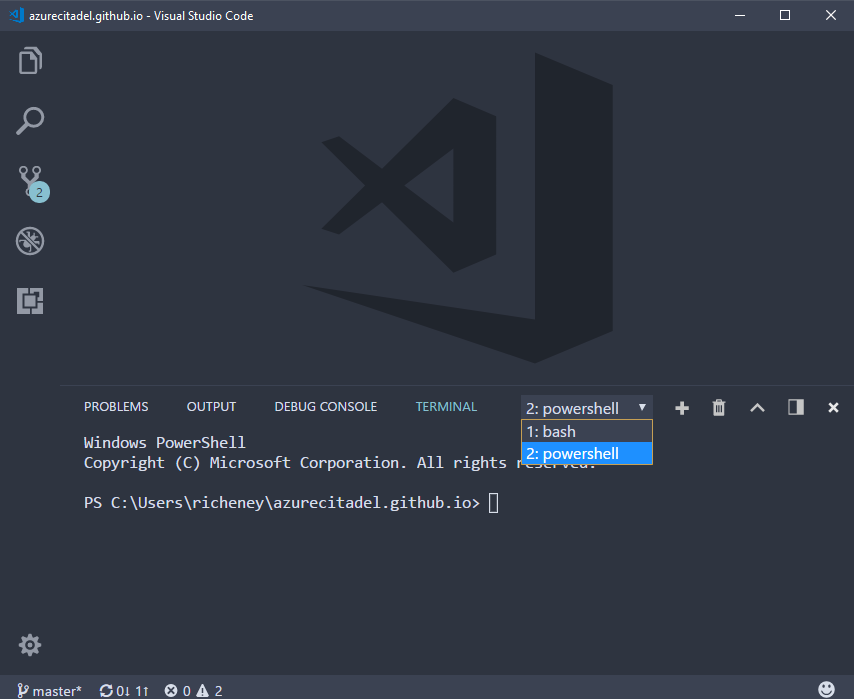
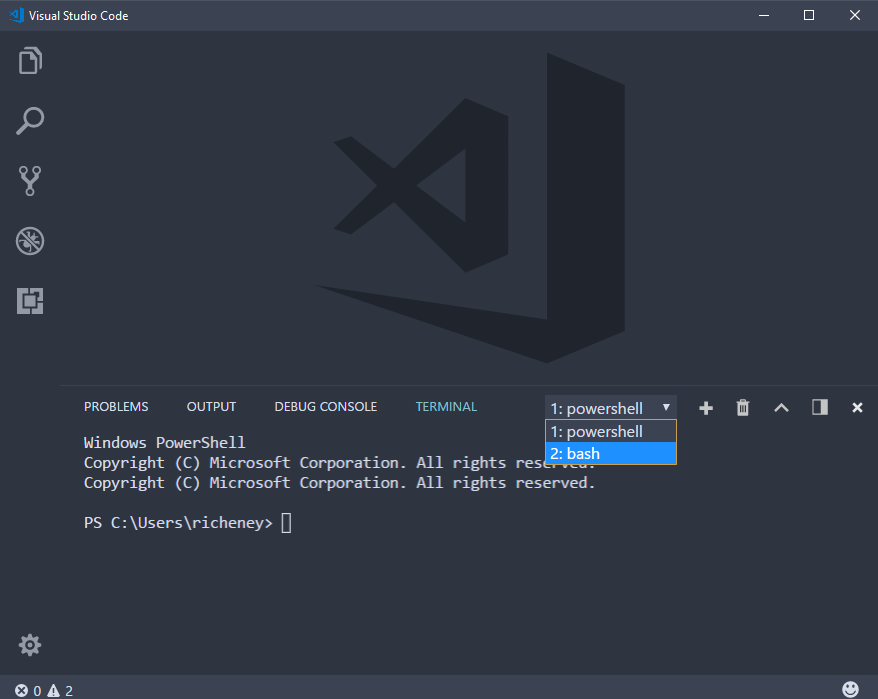
Reverted back to Git for Windows

diff --git a/guides/prereqs/vscode.md b/guides/prereqs/vscode.md
@@ -47,19 +47,22 @@ Do not install the third party Azure Resource Manager Snippets extension availbl
 
 ## Git Integration
 
-For Git to be recognised as an SCM (source code management) provider, VS Code needs to be able to find git.exe in the PATH.  
+For Git to be recognised as an SCM (source code management) provider, VS Code needs to be able to find the git executable in the PATH.  
 
 > Currently VS Code will not find git if you have installed the Windows Subsystem for Linux and then installed git into the Bash shell. If you type `git` into either the Command Prompt or a PowerShell window then it will not be found.
 
-The newest and least intrusive Git installation is [GitHub Desktop](https://desktop.github.com/).  Install and configure.  You will need to log in to GitHub, so you can either create an ID as part of the install process, or provide your existing credentials.  ([GitHub Desktop](https://desktop.github.com/) is preferred to the older [Git for Windows](https://git-scm.com/download/win).) 
+If you have a Windows desktop OS then install [Git for Windows](https://git-scm.com/download/win) if you have not done so already. Recommended settings:  
+* **Unselect the checboxes for Windows Explorer integration and file associations**
+* Use Git from the Windows Command Prompt (default)
+* Use OpenSSH (default)
+* Use the OpenSSL library (default)
+* Checkout Windows-style, commit Unix-style endings (default)
+* **User Windows' default console window**
+* Retain all extra optoins (caching, Git Credential Manager, symbolic links)
 
-The installer for GitHub Desktop makes use of a portable Git deployment, placing a number of executables including git.exe into `%LOCALAPPDATA%\GitHub\PortableGit_*COMMITID*\mingw32\\bin`.  You can ensure VS Code can find this by either:
-1. adding the directory to the PATH environment variable and restarting VS Code
-2. setting **git.path** in Settings (CTRL-,)
+> Note that there is a newer and less  intrusive Git installation from [GitHub Desktop](https://desktop.github.com/), but this is not as easy to integrate with VS Code as Git for Windows and is therefore not recommended.
 
-An example settings.json file can be found below.
-
-> If you have 2FA enabled on your GitHub account then you will need to generate a [personal access token](https://help.github.com/articles/creating-a-personal-access-token-for-the-command-line/) and use that as your password upon first connection. 
+ If you have 2FA enabled on your GitHub account then you will need a [personal access token](https://help.github.com/articles/creating-a-personal-access-token-for-the-command-line/). Use that in place of the password upon first clone or sync action. 
 
 ## Integrated Console 
 
@@ -76,11 +79,11 @@ To override the defaults, you can manually configure the settings.json.  Open up
 You can override the shell used by Windows in the integrated console by setting the **terminal.integrated.shell.windows** value:
 
 Shell Location | Notes
-"C:/Windows/sysnative/cmd.exe" | 64-bit Command Prompt if available, if not 32-bit
+"C:\\\\Windows\\\\sysnative\\\\cmd.exe" | 64-bit Command Prompt if available, if not 32-bit
 "C:/Windows/sysnative/WindowsPowerShell/v1.0/powershell.exe" | 64-bit PowerShell if available, if not 32-bit
 "C:/Windows/sysnative/bash.exe" | [Bash on Ubuntu](/guides/prereqs/lxss) (Windows Subsystem for Linux (WSL) on Windows 10)
 
-> Note that pathing may use either forward or backslashes in the settings.json file, but backslashes will need to be escaped (i.e. \\\\) 
+> Note that pathing may use either forward or backslashes in the settings.json file, but backslashes will need to be escaped (i.e. \\\\).  The exception is Command Prompt which requires backslashes as shown.  
 
 The example settings file at the bottom of this page shows an example of the shell being overridden. 
 
@@ -90,8 +93,9 @@ For reference, here is an example settings.json user override area:
 
 ```json
 {
-    "bashpath": "C:/Windows/sysnative/bash.exe",
-    "poshpath": "C:/Windows/sysnative/WindowsPowerShell/v1.0/powershell.exe",
+    // "C:/Windows/sysnative/bash.exe",
+    // "C:/Windows/sysnative/WindowsPowerShell/v1.0/powershell.exe",
+    // "C:\\Windows\\sysnative\\cmd.exe",
     "terminal.integrated.shell.windows": "C:/Windows/sysnative/bash.exe",
     "git.path": "C:/Users/richeney/AppData/Local/GitHub/PortableGit_f02737a78695063deace08e96d5042710d3e32db/mingw32/bin/git.exe",
     "git.enableSmartCommit": true,
@@ -105,9 +109,7 @@ For reference, here is an example settings.json user override area:
 }
 ```
 
-
-
-The bashpath and poshpath variables are ones I have created.  As they are not used in the main settings file they will have a wiggly underscore. It is possible to open multiple terminal sessions by clicking on the *+* icon.  And if you change the terminal.integrated.shell.windows then you can open up sessions using different shells, as shown in the screenshot below:
+It is possible to open multiple terminal sessions by clicking on the *+* icon, and this is the reason that this settings file includes the commented fields with the additional shell paths.  If you change the terminal.integrated.shell.windows then you can open up sessions using different shells, as shown in the screenshot below:
 
 ![](/guides/prereqs/images/vscode/multipleShells.png) 
 
